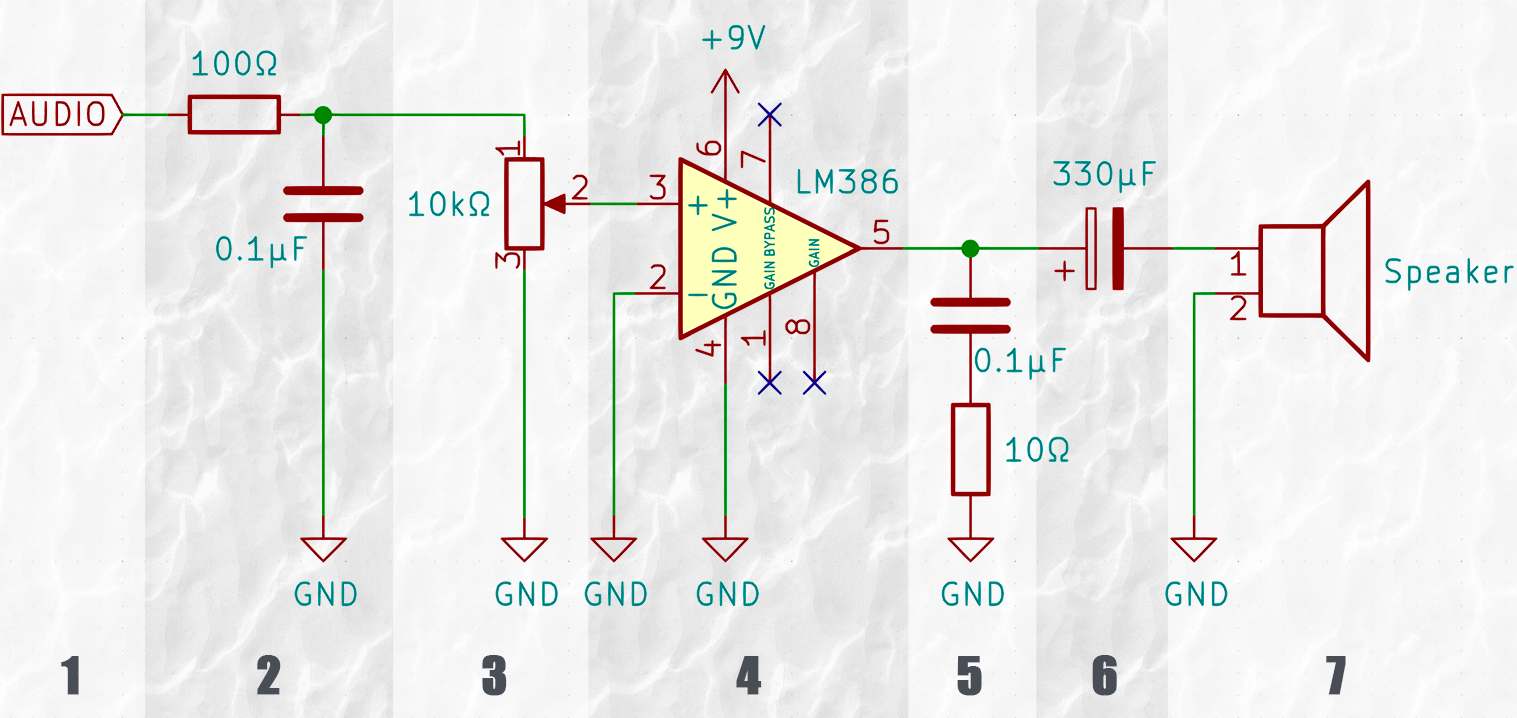
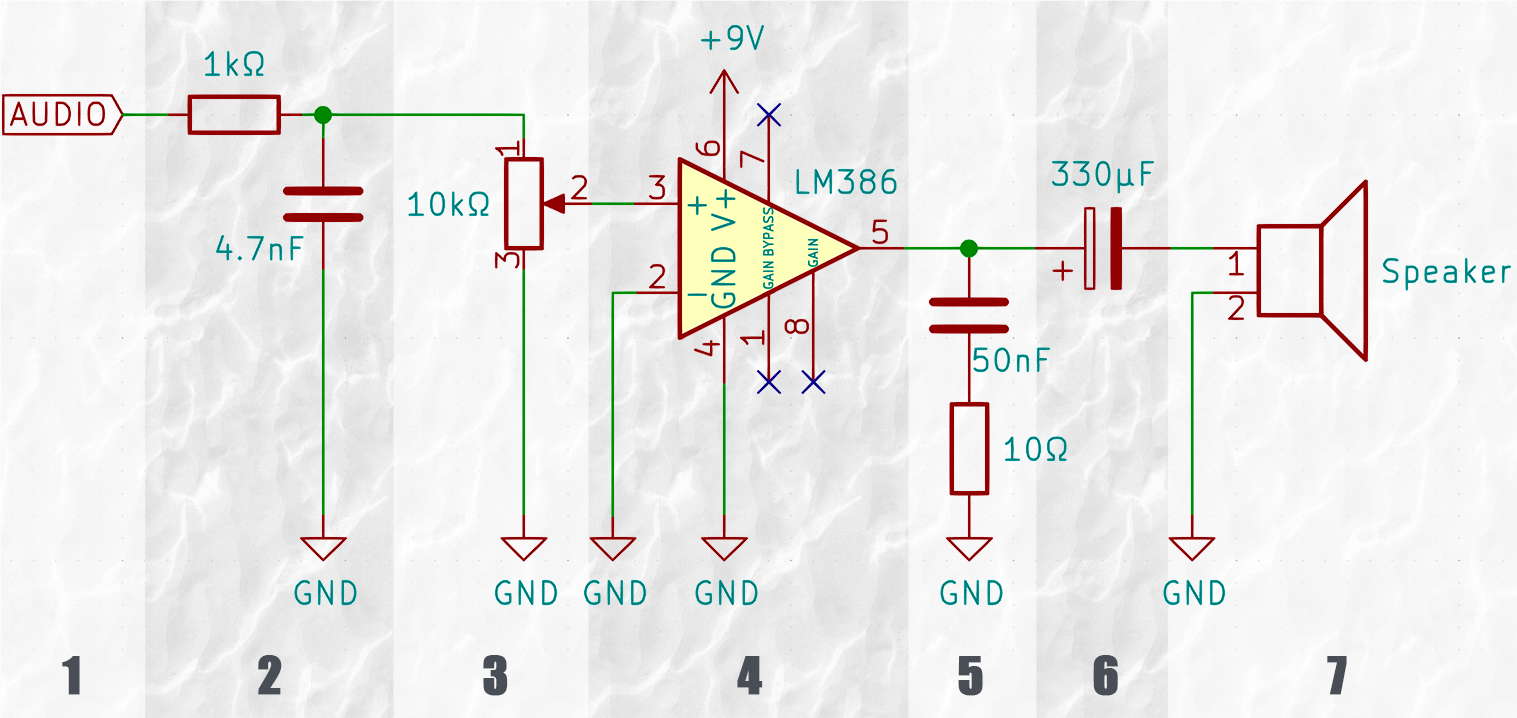
Update audio schematics

diff --git a/index.html b/index.html
@@ -415,12 +415,7 @@ void loop() {
                                         <li>A polarized capacitor to block DC current.</li>
                                         <li>A loudspeaker for the final audio output.</li>
                                     </ol>
-                                    <p><em>Some additional notes:<br>The values for the resistors and capacitors have
-                                            been
-                                            chosen for convenience rather than performance. The LM386's datasheet
-                                            recommends a 0.05&micro;F capacitor for the Zobel Network in (5). Also, the
-                                            cut off frequency for the low pass filter in (2) is rather low with 15kHz
-                                            and should be doubled for serious applications.<br>The power input of the
+                                    <p><em>Some additional notes:<br>The power input of the
                                             LM386 may be increased up to 12V for less distorted output.<br>The value of
                                             the polarized capacitor in (6) can be anything from 220&micro;F to
                                             1000&micro;F.</em></p>
